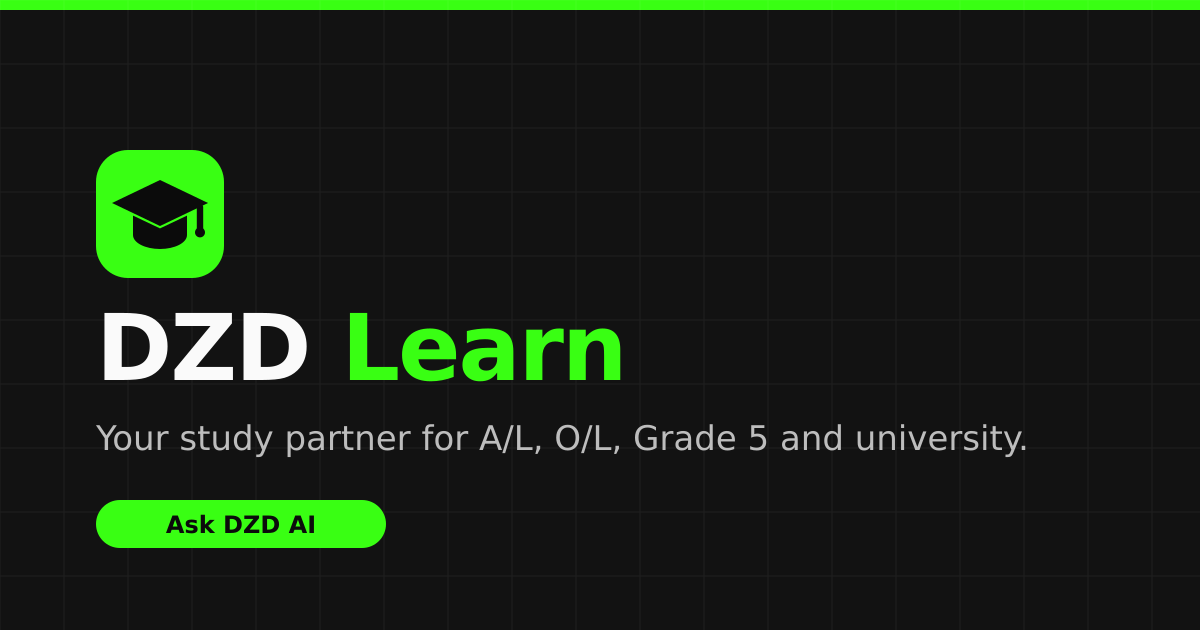
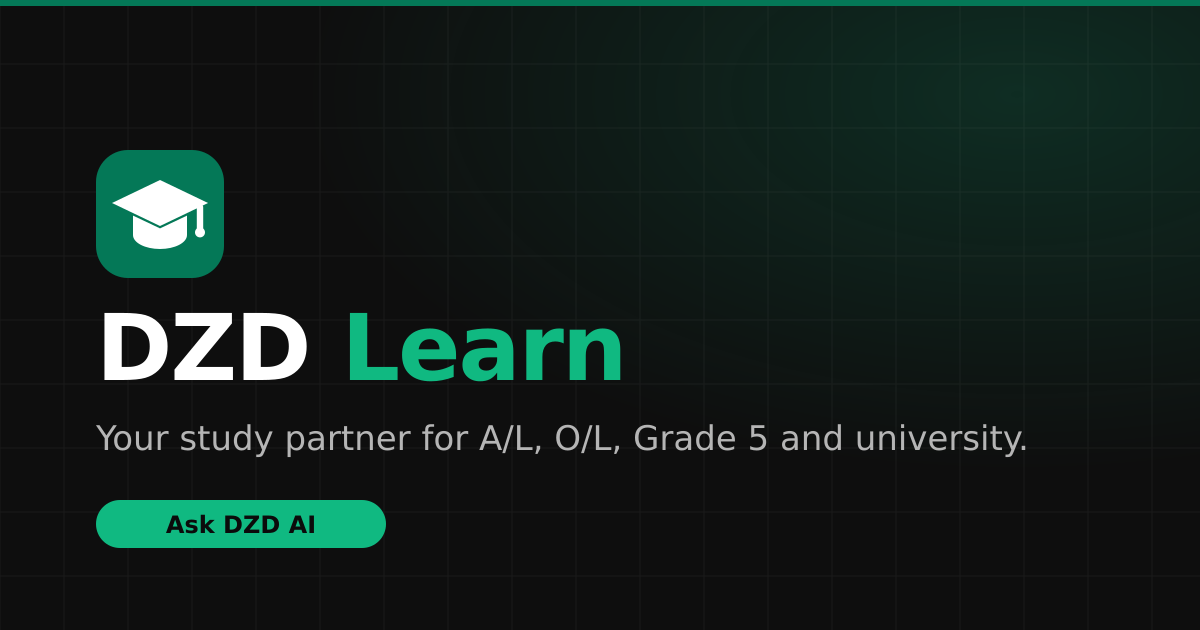
Switch DZD Learn brand to premium emerald green
Replace neon #39FF13 with a deep emerald that pairs with black and white:
- Light: #047857 with white text (5.5:1); also used for links/focus (5.3:1)
- Dark: #10B981 with near-black text (7.8:1), 7.2:1 on charcoal
- Tints (selection, active chat, composer focus, editor) derive from
  --brand via color-mix so they follow the active theme
- Logo mark follows theme tokens; regenerate icon.svg, favicon,
  apple-icon and OG/Twitter images

diff --git a/app/globals.css b/app/globals.css
@@ -56,20 +56,20 @@
   --radius: 0.625rem;
 
   /*
-   * DZD Learn primary green: #39FF13 === oklch(0.8714 0.2861 141.51)
-   * (round-trip verified). Only ever pair it with near-black text
-   * (~14.6:1 contrast). On light surfaces it is ~1.36:1 against white, so
-   * green *text* and thin focus edges in light mode use --brand-ink /
-   * --ring-edge instead, while fills, halos, and highlights stay #39FF13.
+   * DZD Learn green: a deep emerald that pairs with black and white.
+   * Light mode: #047857 = oklch(0.5081 0.1049 165.61)
+   *   - white text on green 5.5:1, green text/links on white 5.3:1 (AA)
+   * Dark mode (see .dark): #10B981 = oklch(0.6959 0.1491 162.48)
+   *   - near-black text on green 7.8:1, green on charcoal 7.2:1 (AA)
+   * Translucent tints below derive from --brand via color-mix so they
+   * follow the active theme automatically.
    */
-  --brand: oklch(0.8714 0.2861 141.51);
-  --brand-foreground: oklch(0.16 0 0);
-  --brand-ink: oklch(
-    0.5056 0.166 140.92
-  ); /* #1A7A00, same hue, 5.5:1 on white */
-  --brand-soft: oklch(0.8714 0.2861 141.51 / 0.16);
-  --ring-edge: oklch(0.2 0 0);
-  --focus-inner: oklch(0.2 0 0);
+  --brand: oklch(0.5081 0.1049 165.61);
+  --brand-foreground: oklch(1 0 0);
+  --brand-ink: var(--brand);
+  --brand-soft: color-mix(in oklch, var(--brand) 12%, transparent);
+  --ring-edge: var(--brand);
+  --focus-inner: transparent;
 
   --background: oklch(0.985 0 0);
   --foreground: oklch(0.12 0 0);
@@ -108,7 +108,8 @@
     0 8px 24px -6px oklch(0 0 0 / 0.1), 0 2px 8px -2px oklch(0 0 0 / 0.04);
   --shadow-composer: 0 1px 2px oklch(0 0 0 / 0.04);
   --shadow-composer-focus:
-    0 0 0 1px var(--ring-edge), 0 0 0 4px oklch(0.8714 0.2861 141.51 / 0.45),
+    0 0 0 1px var(--ring-edge),
+    0 0 0 4px color-mix(in oklch, var(--brand) 18%, transparent),
     0 2px 8px -2px oklch(0 0 0 / 0.06);
   --shadow-inset: inset 0 1px 1px oklch(0 0 0 / 0.03);
   --shadow-glow: 0 0 20px oklch(0 0 0 / 0.08);
@@ -119,9 +120,11 @@
 }
 
 .dark {
-  /* On charcoal, #39FF13 itself is readable (~12:1), so ink == brand. */
+  /* Brighter emerald for charcoal surfaces; text on it is near-black. */
+  --brand: oklch(0.6959 0.1491 162.48);
+  --brand-foreground: oklch(0.16 0 0);
   --brand-ink: var(--brand);
-  --brand-soft: oklch(0.8714 0.2861 141.51 / 0.14);
+  --brand-soft: color-mix(in oklch, var(--brand) 14%, transparent);
   --ring-edge: var(--brand);
   --focus-inner: transparent;
 
@@ -166,8 +169,8 @@
   --shadow-composer:
     0 1px 3px oklch(0 0 0 / 0.2), inset 0 1px 0 oklch(1 0 0 / 0.03);
   --shadow-composer-focus:
-    0 0 0 1px oklch(0.8714 0.2861 141.51 / 0.7),
-    0 0 0 4px oklch(0.8714 0.2861 141.51 / 0.18),
+    0 0 0 1px color-mix(in oklch, var(--brand) 70%, transparent),
+    0 0 0 4px color-mix(in oklch, var(--brand) 18%, transparent),
     0 4px 16px -4px oklch(0 0 0 / 0.3), inset 0 1px 0 oklch(1 0 0 / 0.04);
 }
 
@@ -228,8 +231,7 @@ textarea:focus-visible {
 
 /*
  * Branded, high-contrast keyboard focus indicator for interactive controls:
- * a #39FF13 outline, plus a charcoal inner edge in light mode so the
- * indicator keeps >3:1 contrast against white surfaces.
+ * a 2px emerald outline (>3:1 against both light and dark surfaces).
  */
 :is(
   a[href],
@@ -247,7 +249,7 @@ textarea:focus-visible {
 
 ::selection {
   color: var(--foreground);
-  background: oklch(0.8714 0.2861 141.51 / 0.35);
+  background: color-mix(in oklch, var(--brand) 25%, transparent);
 }
 
 @utility text-balance {
@@ -378,10 +380,10 @@ textarea:focus-visible {
 @keyframes glow-pulse {
   0%,
   100% {
-    box-shadow: 0 0 0 0 oklch(0.8714 0.2861 141.51 / 0%);
+    box-shadow: 0 0 0 0 color-mix(in oklch, var(--brand) 0%, transparent);
   }
   50% {
-    box-shadow: 0 0 0 3px oklch(0.8714 0.2861 141.51 / 20%);
+    box-shadow: 0 0 0 3px color-mix(in oklch, var(--brand) 20%, transparent);
   }
 }
 
@@ -457,7 +459,7 @@ textarea:focus-visible {
 .ͼo.cm-focused > .cm-scroller > .cm-selectionLayer .cm-selectionBackground,
 .ͼo.cm-selectionBackground,
 .ͼo.cm-content::selection {
-  background: oklch(0.8714 0.2861 141.51 / 0.25) !important;
+  background: color-mix(in oklch, var(--brand) 20%, transparent) !important;
 }
 
 .dark
@@ -467,7 +469,7 @@ textarea:focus-visible {
   .cm-selectionBackground,
 .dark .ͼo.cm-selectionBackground,
 .dark .ͼo.cm-content::selection {
-  background: oklch(0.8714 0.2861 141.51 / 0.2) !important;
+  background: color-mix(in oklch, var(--brand) 25%, transparent) !important;
 }
 
 .cm-activeLine {
@@ -497,15 +499,15 @@ textarea:focus-visible {
 }
 
 .cm-matchingBracket {
-  outline: 1px solid oklch(0.8714 0.2861 141.51 / 0.6);
-  background: oklch(0.8714 0.2861 141.51 / 0.18) !important;
+  outline: 1px solid color-mix(in oklch, var(--brand) 60%, transparent);
+  background: color-mix(in oklch, var(--brand) 15%, transparent) !important;
   border-radius: 2px;
 }
 
 .suggestion-highlight {
   -webkit-user-select: none;
   user-select: none;
-  @apply cursor-pointer rounded-sm bg-brand/30 transition-colors hover:bg-brand/50 dark:bg-brand/20 dark:text-foreground dark:hover:bg-brand/30;
+  @apply cursor-pointer rounded-sm bg-brand/20 transition-colors hover:bg-brand/30 dark:bg-brand/25 dark:text-foreground dark:hover:bg-brand/35;
 }
 
 @layer base {

diff --git a/components/chat/icons.tsx b/components/chat/icons.tsx
@@ -51,9 +51,9 @@ export const AttachmentIcon = () => (
 );
 
 /**
- * DZD Learn brand mark: a graduation cap on the DZD Learn green (#39FF13).
- * The cap is near-black so it stays legible on the vivid green in both themes.
- * Keep in sync with app/icon.svg.
+ * DZD Learn brand mark: a graduation cap on the DZD Learn emerald tile.
+ * Follows the theme tokens: white cap on #047857 (light), near-black cap on
+ * #10B981 (dark). Keep in sync with app/icon.svg.
  */
 export const DzdLogoMark = ({
   size = 24,
@@ -74,19 +74,27 @@ export const DzdLogoMark = ({
     width={size}
   >
     {title ? <title>{title}</title> : null}
-    <rect fill="var(--brand, #39FF13)" height="32" rx="8" width="32" />
-    <path d="M16 7.5 28 13.25 16 19 4 13.25Z" fill="#0B0B0B" />
+    <rect fill="var(--brand, #047857)" height="32" rx="8" width="32" />
+    <path
+      d="M16 7.5 28 13.25 16 19 4 13.25Z"
+      fill="var(--brand-foreground, #FFFFFF)"
+    />
     <path
       d="M9.25 16.4v4.85c0 1.95 3.05 3.5 6.75 3.5s6.75-1.55 6.75-3.5V16.4L16 19.6Z"
-      fill="#0B0B0B"
+      fill="var(--brand-foreground, #FFFFFF)"
     />
     <path
       d="M26 14.3v5.4"
-      stroke="#0B0B0B"
+      stroke="var(--brand-foreground, #FFFFFF)"
       strokeLinecap="round"
       strokeWidth="1.6"
     />
-    <circle cx="26" cy="20.6" fill="#0B0B0B" r="1.25" />
+    <circle
+      cx="26"
+      cy="20.6"
+      fill="var(--brand-foreground, #FFFFFF)"
+      r="1.25"
+    />
   </svg>
 );
 
